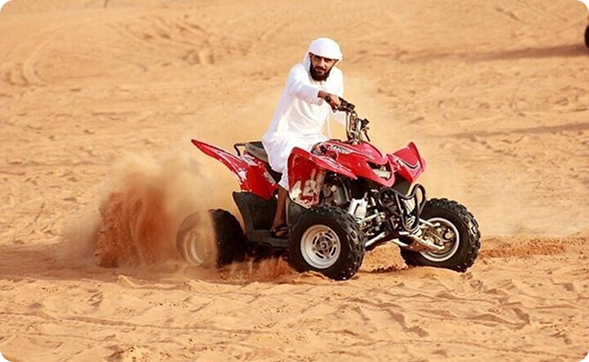
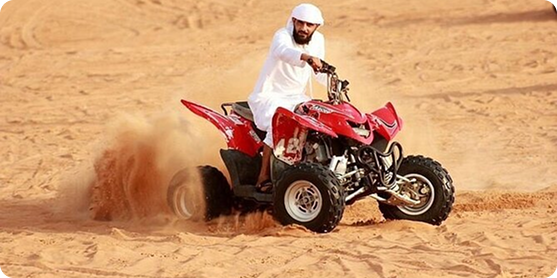
Update AboutUs page and add RANTAL images

diff --git a/AboutUs.html b/AboutUs.html
@@ -178,7 +178,7 @@
 
                 </div>
                 <div class="dubai-life-img">
-                    <img src="photos/RANTAL2.png" alt="imagge">
+                    <img src="photos/RANTAL12.png" alt="imagge">
                 </div>
             </div>
 
